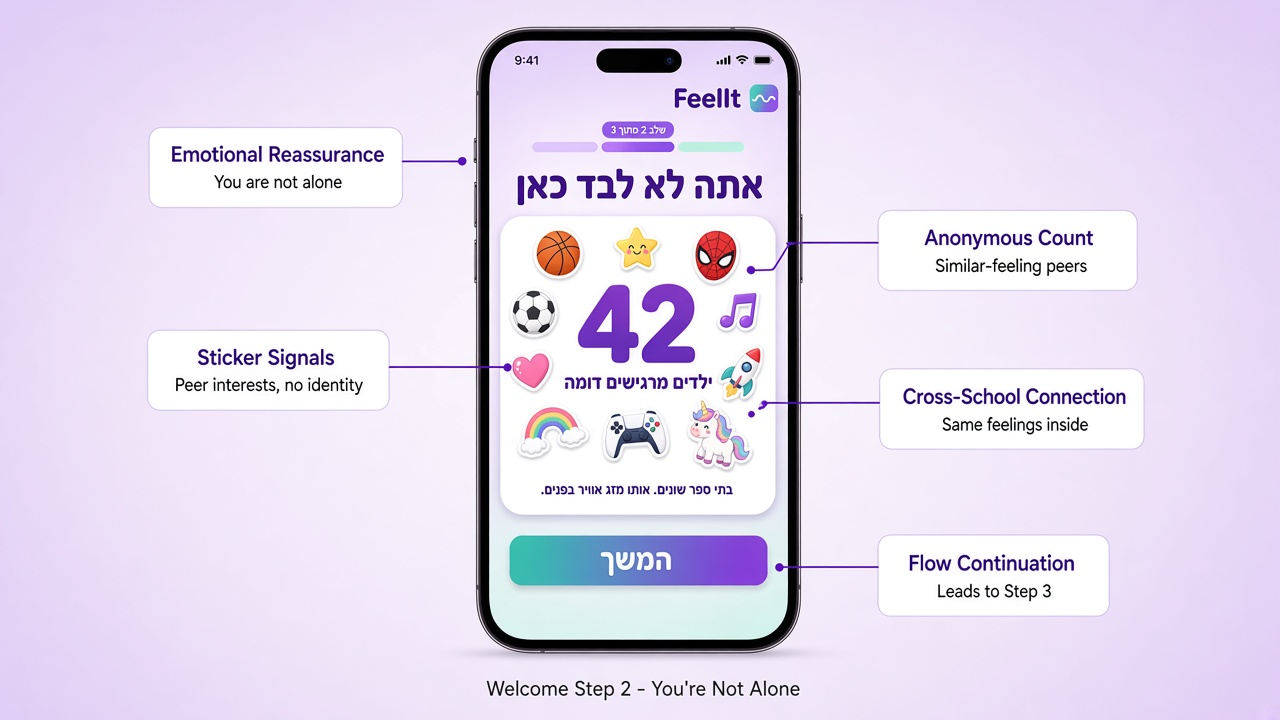
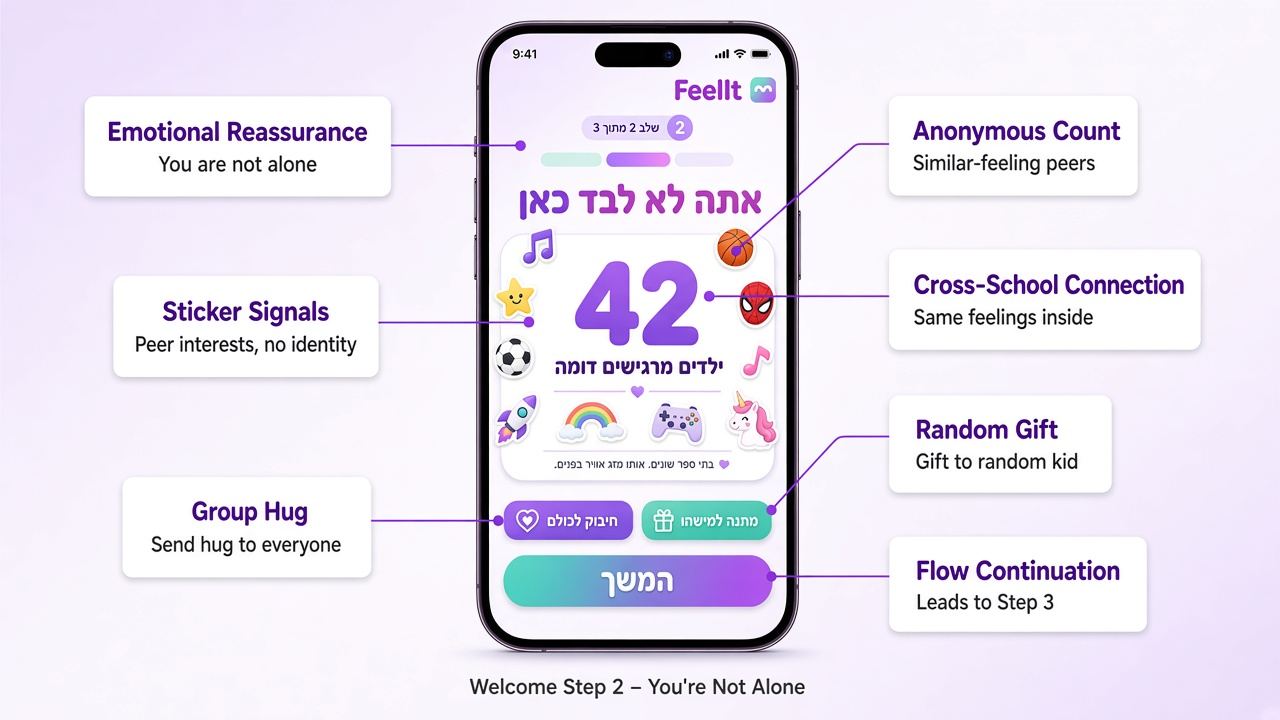
Add Group Hug and Random Gift buttons to Welcome Step 2
Product change: Two new anonymous action buttons on Step 2 screen:
- חיבוק לכולם (Group Hug) - send hug to everyone feeling similarly
- מתנה למישהו (Random Gift) - send gift to one random kid from cohort

Updated files:
- mocks/welcome-not-alone.png: Added two action buttons above Continue
- mocks/annotated/welcome-step2-annotated.png: Added callouts for Group Hug and Random Gift
- README.md: Step 2 section now describes both anonymous actions

Preserved: title, sticker cluster, 42 count, footer text, Continue button, FeelIt chrome

diff --git a/README.md b/README.md
@@ -51,12 +51,20 @@ Kids express their emotional state through five feeling levers. Each lever uses 
 
 Immediate emotional validation: a real-time count of other kids feeling similarly. Around the count, a cluster of **stickers** (hobbies, interests, characters) sampled from similar-feeling peers—personalizing the connection without revealing identity. No names, no faces, no schools.
 
+**Two anonymous actions** available directly from this screen:
+- **Group Hug** — send a hug to everyone in the similar-feeling cohort at once
+- **Random Gift** — send a unique gift to one random kid from the cohort
+
+Both actions are anonymous; recipients never know who sent.
+
 ![Welcome Step 2 — Anonymous Peer Count](mocks/annotated/welcome-step2-annotated.png)
 
 **For engineering:**
 - Query users with similar lever profiles (threshold TBD in Open Questions)
 - Display anonymized count + random sticker sample from matching cohort
 - Minimum cohort size floor to protect small groups
+- Group hug: broadcast to all matching users
+- Random gift: select one random user from cohort, deliver gift anonymously
 
 ---
 
